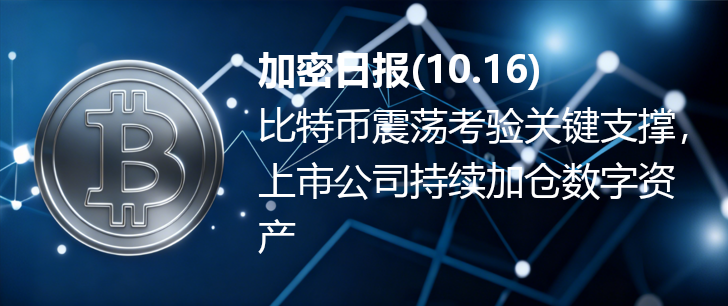
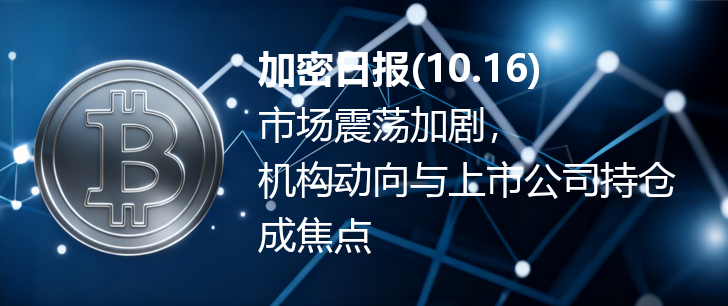
daily_news

diff --git a/files/latest_summary.md b/files/latest_summary.md
@@ -1,44 +1,30 @@
-### 一、比特币价格走势及技术分析
+### 一、比特币价格波动与技术面分析
 **总结**：
-1. 比特币近期在$112,000附近陷入区间震荡，价格波动在$110,456至$113,537之间，短期面临$111,800-$112,000支撑与$114,800阻力位考验。
-2. 技术面显示，若11万美元支撑位失守，可能下探10万美元及以下目标，包括50周EMA、1.618斐波那契回调线（约10万-10.3万美元）及MVRV均值回归水平（约9.65万美元）。
-3. 短期动量偏向看跌，RSI、MACD等指标中性或显示看跌力量，市场等待方向性催化剂，需关注突破或跌破关键支撑后的走势。
-4. 机构对年底价格预测分歧，部分看涨至25万美元，部分认为当前处于牛市周期中的短期降温阶段，需清除过度杠杆与过热估值。
+1. 比特币当前在$112,000-$114,500区间震荡，短期呈现熊旗形态，若跌破$111,500支撑位，目标下看$109,000-$108,000。
+2. 技术指标显示短期动量偏空，10、20、30、50周期EMA/SMA均位于现价上方，200周期EMA/SMA仍高于现价，反映长期上行趋势与短期修正并存。
+3. 宏观因素（贸易担忧、美联储鸽派讲话）压制市场情绪，比特币一度跌破11万美元，需关注关键支撑位和方向性催化剂。
 **参考**：
-- [比特币价格观察：随着多头和空头准备下一步行动，市场停滞在11.2万美元](https://news.bitcoin.com/zh/bi-te-bi-jia-ge-guan-cha-sui-zhe-duo-tou-he-kong-tou-zhun-bei-xia-yi-bu-xing-dong-shi-chang-ting-zhi-zai-11-2-wan-mei-yuan/)
+- [比特币价格观察：市场在$112K陷入停滞，牛市与熊市准备下一步行动](https://news.bitcoin.com/bitcoin-price-observation-market-stalls-at-112k-as-bulls-bears-prepare-next-move/)
 - [如果比特币（BTC）11万美元支撑位失守，其价格可能跌至何处？](https://cn.cointelegraph.com/news/how-low-can-bitcoin-price-go-if-dollar110k-btc-support-fails)
 - [贸易阴霾遇上鸽派鲍威尔，科技股拖累标普纳指转跌，黄金两日新高，银油铜加密货币回落](https://wallstreetcn.com/articles/3757142)
-- [Powell's Dovish Tone Fails to Lift Crypto Market as Bitcoin Slips Under $112K](https://cryptonews.com/cn/news/crypto-market-turns-bearish-as-bitcoin-dips-below-113k-ai-tokens-rise/)
 
----
 
-### 二、其他加密货币动态
+### 二、加密货币市场情绪与机构/大户动向
 **总结**：
-1. 加密鲸鱼开始大举做空XRP，押注其进一步下跌，同时DOGE也受市场回调压力，价格表现疲软，市场热点快速转移至新项目。
-2. 曾在LUNA/UST崩盘期间做空比特币获利516万美元的“聪明钱”，近期斥资约1201万美元买入2879枚泰达黄金（XAUt），成交均价4168美元。
+1. 加密市场情绪紧张，主流币普跌，比特币回调约2.62%，以太坊跌3.68%，XRP跌4.17%，BNB暴跌10.26%，市场热点转向新项目。
+2. 鲸鱼大举做空XRP和DOGE，押注其进一步下跌，而“聪明钱”在LUNA/UST崩盘期间做空比特币获利后，近期买入2879枚XAUt。
+3. 市场等待美联储主席鲍威尔发言，政策信号可能加剧或缓解加密市场波动。
 **参考**：
-- [鲸鱼重仓做空XRP 和DOGE 待鲍威尔重磅发言](https://cryptonews.com/cn/news/crypto-whales-heavily-short-xrp-and-doge-ahead-of-powells-pivotal-speech/)
 - [LUNA/UST崩盘时曾做空BTC赚516万美元的聪明钱再出手，8小时内买入2879枚XAUt](https://www.odaily.news/zh-CN/newsflash/452406)
+- [鲸鱼重仓做空XRP 和DOGE 待鲍威尔重磅发言](https://cryptonews.com/cn/news/crypto-whales-heavily-short-xrp-and-doge-ahead-of-powells-pivotal-speech/)
 
----
 
-### 三、上市公司加密货币投资及持仓动态
+### 三、上市公司投资加密货币动态
 **总结**：
-1. 美股上市公司Zeta Network Group完成2.31亿美元定向增发，融资全部以比特币（BTC）或1:1锚定的SolvBTC支付，所得资金将增强资产负债表和数字资产金库。
-2. 韩国上市公司Parataxis Holdings在市场回调期间增持比特币至超150枚，并计划收购1150台ASIC矿机建立垂直整合的BTC收益平台。
-3.联众(06899)附属公司投资比特币和增加以太坊持仓，推动区块链技术与游戏娱乐产业融合，股价曾大涨37%（后涨幅收窄至25.42%）。
+1. 美股上市公司Zeta Network Group完成2.31亿美元定向增发，融资以比特币或SolvBTC支付，用于增强资产负债表和数字资产金库。
+2. 联众(06899)附属公司投资比特币和增加以太坊持仓，推动区块链技术与游戏、娱乐产业融合，股价曾涨37%。
+3. 韩国上市公司Parataxis Holdings增持比特币至150枚以上，计划收购1150台ASIC矿机，建立垂直整合的BTC收益平台。
 **参考**：
-- [Zeta Network Group 完成2.31亿美元融资](https://finance.sina.com.cn/blockchain/roll/2025-10-15/doc-inftyrui3369783.shtml)
-- [上市公司Parataxis披露比特币持仓已逾150枚](https://www.bitget.com/zh-CN/news/detail/12560605015918)
+- [Zeta Network Group 完成2.31 亿美元融资，将接受比特币或SolvBTC 交付](https://finance.sina.com.cn/blockchain/roll/2025-10-15/doc-inftyrui3369783.shtml)
 - [联众(06899)曾涨37% 附属投资比特币和增加以太坊持仓](http://www.aastocks.com/sc/mobile/news.aspx?newsid=IC4614726&newstype=61&newssource=INFOCAST)
-- [上市公司Zeta Network达成以BTC或SolvBTC支付的约2.3亿美元证券购买协议](https://m.marsbit.co/flash/20251015194501668383.html)
-
----
-
-### 四、市场事件及宏观因素对加密货币的影响
-**总结**：
-1. 美联储主席鲍威尔发表鸽派讲话，暗示可能停止缩减资产负债表（QT）并年内或有一次降息，但未能有效提振加密市场，比特币仍受贸易担忧、科技股下跌等因素拖累。
-2. 美中贸易紧张局势重燃，科技股及大盘下跌，风险资产情绪恶化，加密货币随股市回落，比特币一度跌破11万美元，以太坊、XRP等主流币跌幅超3%。
-**参考**：
-- [贸易阴霾遇上鸽派鲍威尔，科技股拖累标普纳指转跌，黄金两日新高，银油铜加密货币回落](https://wallstreetcn.com/articles/3757142)
-- [Powell's Dovish Tone Fails to Lift Crypto Market as Bitcoin Slips Under $112K](https://cryptonews.com/cn/news/crypto-market-turns-bearish-as-bitcoin-dips-below-113k-ai-tokens-rise/)
+- [上市公司Parataxis 披露比特币持仓已逾150 枚| Bitget 资讯](https://www.bitget.com/zh-CN/news/detail/12560605015918)

diff --git a/files/latest_summary_cleaned.md b/files/latest_summary_cleaned.md
@@ -1,18 +1,12 @@
-### 一、比特币价格走势及技术分析
-1. 比特币近期在$112,000附近陷入区间震荡，价格波动在$110,456至$113,537之间，短期面临$111,800-$112,000支撑与$114,800阻力位考验。
-2. 技术面显示，若11万美元支撑位失守，可能下探10万美元及以下目标，包括50周EMA、1.618斐波那契回调线（约10万-10.3万美元）及MVRV均值回归水平（约9.65万美元）。
-3. 短期动量偏向看跌，RSI、MACD等指标中性或显示看跌力量，市场等待方向性催化剂，需关注突破或跌破关键支撑后的走势。
-4. 机构对年底价格预测分歧，部分看涨至25万美元，部分认为当前处于牛市周期中的短期降温阶段，需清除过度杠杆与过热估值。
-
-### 二、其他加密货币动态
-1. 加密鲸鱼开始大举做空XRP，押注其进一步下跌，同时DOGE也受市场回调压力，价格表现疲软，市场热点快速转移至新项目。
-2. 曾在LUNA/UST崩盘期间做空比特币获利516万美元的“聪明钱”，近期斥资约1201万美元买入2879枚泰达黄金（XAUt），成交均价4168美元。
-
-### 三、上市公司加密货币投资及持仓动态
-1. 美股上市公司Zeta Network Group完成2.31亿美元定向增发，融资全部以比特币（BTC）或1:1锚定的SolvBTC支付，所得资金将增强资产负债表和数字资产金库。
-2. 韩国上市公司Parataxis Holdings在市场回调期间增持比特币至超150枚，并计划收购1150台ASIC矿机建立垂直整合的BTC收益平台。
-3.联众(06899)附属公司投资比特币和增加以太坊持仓，推动区块链技术与游戏娱乐产业融合，股价曾大涨37%（后涨幅收窄至25.42%）。
-
-### 四、市场事件及宏观因素对加密货币的影响
-1. 美联储主席鲍威尔发表鸽派讲话，暗示可能停止缩减资产负债表（QT）并年内或有一次降息，但未能有效提振加密市场，比特币仍受贸易担忧、科技股下跌等因素拖累。
-2. 美中贸易紧张局势重燃，科技股及大盘下跌，风险资产情绪恶化，加密货币随股市回落，比特币一度跌破11万美元，以太坊、XRP等主流币跌幅超3%。
+### 一、比特币价格波动与技术面分析
+1. 比特币当前在$112,000-$114,500区间震荡，短期呈现熊旗形态，若跌破$111,500支撑位，目标下看$109,000-$108,000。
+2. 技术指标显示短期动量偏空，10、20、30、50周期EMA/SMA均位于现价上方，200周期EMA/SMA仍高于现价，反映长期上行趋势与短期修正并存。
+3. 宏观因素（贸易担忧、美联储鸽派讲话）压制市场情绪，比特币一度跌破11万美元，需关注关键支撑位和方向性催化剂。
+### 二、加密货币市场情绪与机构/大户动向
+1. 加密市场情绪紧张，主流币普跌，比特币回调约2.62%，以太坊跌3.68%，XRP跌4.17%，BNB暴跌10.26%，市场热点转向新项目。
+2. 鲸鱼大举做空XRP和DOGE，押注其进一步下跌，而“聪明钱”在LUNA/UST崩盘期间做空比特币获利后，近期买入2879枚XAUt。
+3. 市场等待美联储主席鲍威尔发言，政策信号可能加剧或缓解加密市场波动。
+### 三、上市公司投资加密货币动态
+1. 美股上市公司Zeta Network Group完成2.31亿美元定向增发，融资以比特币或SolvBTC支付，用于增强资产负债表和数字资产金库。
+2. 联众(06899)附属公司投资比特币和增加以太坊持仓，推动区块链技术与游戏、娱乐产业融合，股价曾涨37%。
+3. 韩国上市公司Parataxis Holdings增持比特币至150枚以上，计划收购1150台ASIC矿机，建立垂直整合的BTC收益平台。
